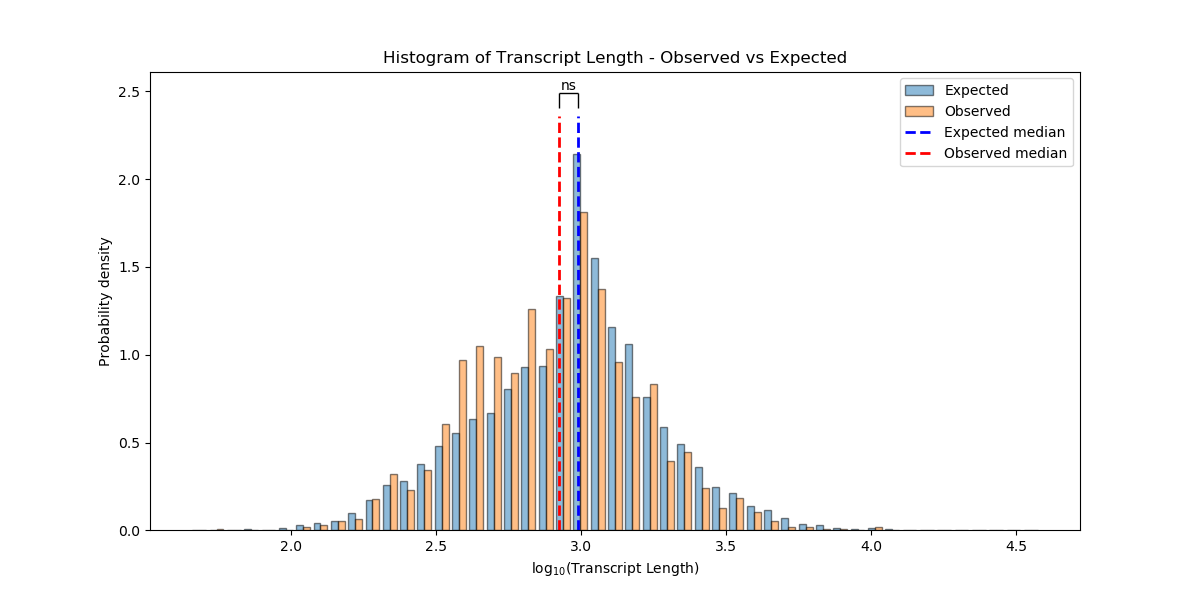
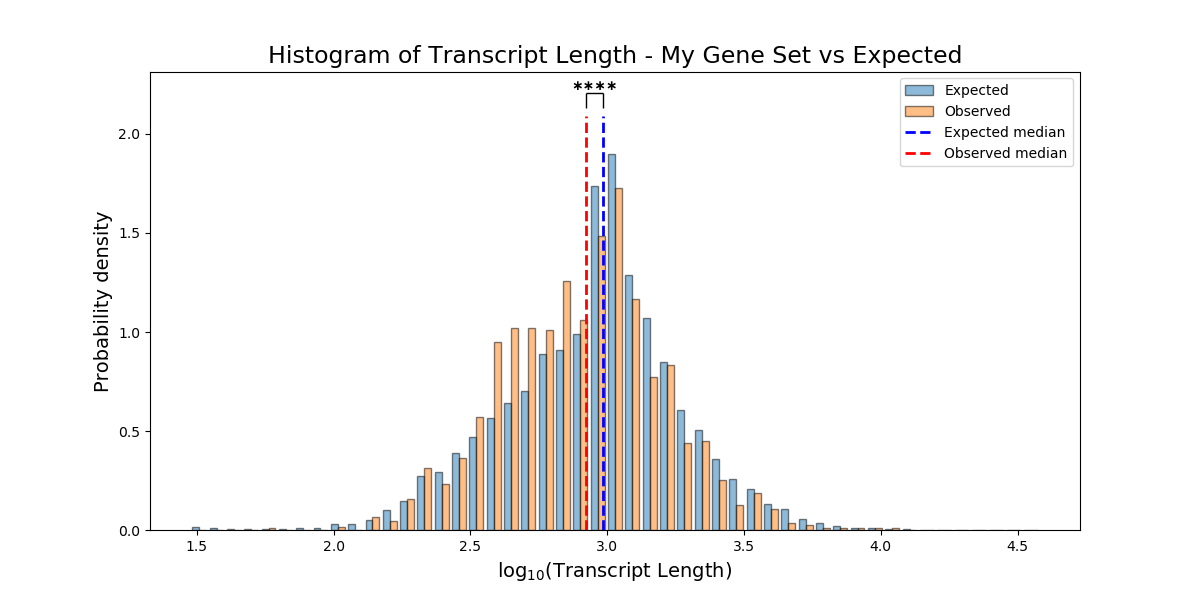
updated histogram plotting

diff --git a/rnalysis/enrichment.py b/rnalysis/enrichment.py
@@ -884,18 +884,20 @@ class FeatureSet:
         else:
             xlabel = f"{attribute}"
 
+        # determine bins according to value range and 'n_bins'
         bins = np.linspace(np.min(exp), np.max(exp), n_bins).squeeze()
-        kwargs = dict(bins=bins, density=True, alpha=0.5, edgecolor='black', linewidth=1)
-        fig = plt.figure(figsize=(12, 6))
-        ax = fig.add_subplot(111)
 
         # generate histogram according to plot style
+        fig = plt.figure(figsize=(12, 6))
+        ax = fig.add_subplot(111)
+        kwargs = dict(bins=bins, density=True, alpha=0.5, edgecolor='black', linewidth=1)
+        colors = ['C0', 'C1']
         if plot_style.lower() == 'interleaved':
-            y, x, _ = ax.hist([exp.values, obs.values], **kwargs, label=['Expected', 'Observed'])
+            y, x, _ = ax.hist([exp.values, obs.values], **kwargs, color=colors, label=['Expected', 'Observed'])
             max_y_val = np.max(y)
         elif plot_style.lower() == 'overlap':
-            y, _, _ = ax.hist(exp.values, **kwargs, label='Expected')
-            y2, _, _ = ax.hist(obs.values, **kwargs, label='Observed')
+            y, _, _ = ax.hist(exp.values, **kwargs, color=colors[0], label='Expected')
+            y2, _, _ = ax.hist(obs.values, **kwargs, color=colors[1], label='Observed')
             max_y_val = np.max([np.max(y), np.max(y2)])
         else:
             raise ValueError(f"Invalid value for 'plot_style': '{plot_style}'")
@@ -924,9 +926,9 @@ class FeatureSet:
         # legend and titles
         ax.legend()
         obs_name = 'Observed' if set_name == '' else set_name
-        ax.set_title(f"Histogram of {attribute} - {obs_name} vs Expected")
-        ax.set_ylabel("Probability density")
-        ax.set_xlabel(xlabel)
+        ax.set_title(f"Histogram of {attribute} - {obs_name} vs Expected", fontsize=17)
+        ax.set_ylabel("Probability density", fontsize=14)
+        ax.set_xlabel(xlabel, fontsize=14)
         plt.show()
 
         return fig
